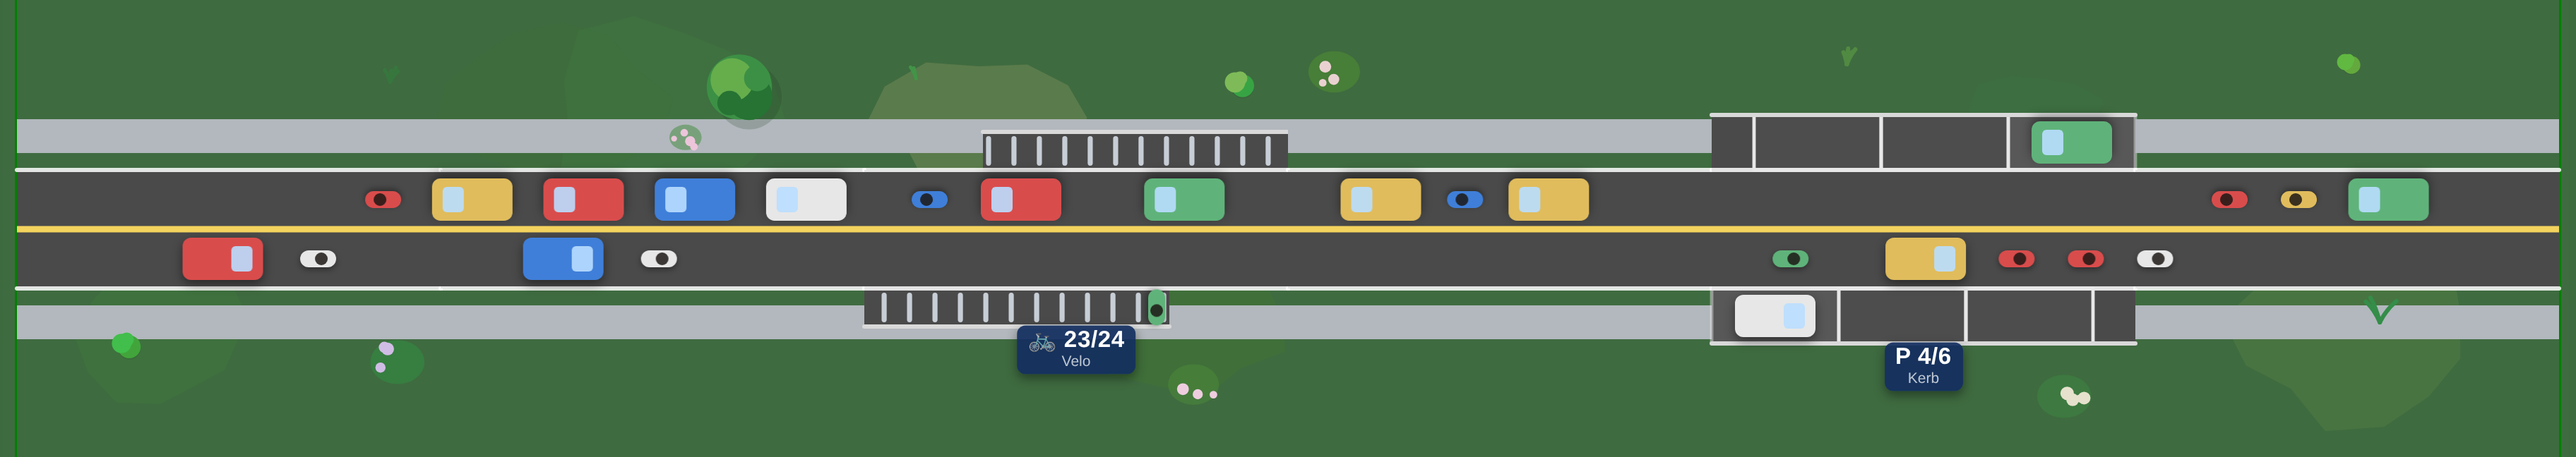
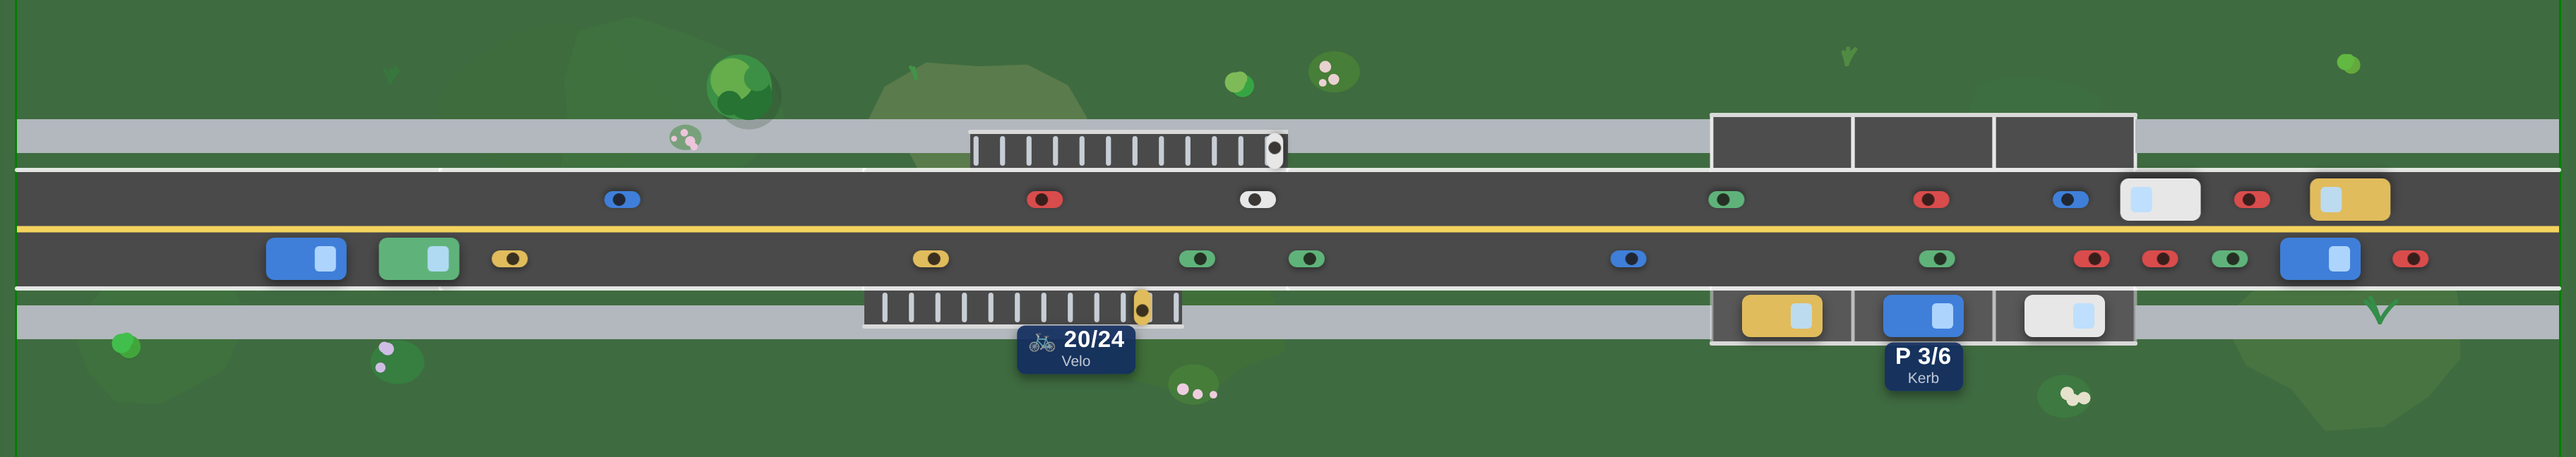
fix(parking): bay pitches divide the tile, so ranks repeat at the seam
Playtest: a kerbside rank showed three bays and a fourth cut off mid-box —
the 60px pitch spanned 180px of a 200px tile and the apron's seam extension
paved the stub. A packed row starts at the leading edge, so only a pitch
that divides the tile exactly can fill it: parallel is 1/3 now (three bays,
edge to edge) and the bike rack 1/16 (sixteen stands), and two parking
tiles side by side repeat as one continuous rank. The truck or coach that
would "fit" the roomier box is still refused by the bay-class gate — size
was never the fence there.

Claude-Session: https://claude.ai/code/session_018cEoxPea8NatzZQmcScoh2

diff --git a/src/tiles/parking.ts b/src/tiles/parking.ts
@@ -425,7 +425,14 @@ const DEPTH_FRAC: Record<StallKind, number> = {
 const PITCH_FRAC: Record<StallKind, number> = {
   // One coach's worth of kerb (a bus is 55px), plus room for the markings.
   busstop: 0.4,
-  parallel: 0.3, // 60px — a 38px car plus room to get in and out
+  // EXACTLY a third of the tile, so three bays FILL it — no orphaned stub of
+  // kerb at the seam. At the old 60px, a packed row spanned 180px and the
+  // apron's seam extension paved the last 20px, which read as a fourth bay cut
+  // off mid-box; at 66.67px, two parking tiles side by side repeat as one
+  // continuous rank of six. A 38px car has generous room either way, and the
+  // truck/coach that would now "fit" the longer box is still refused by the
+  // bay-CLASS gate (`bayAdmits` — a car bay admits cars, full stop).
+  parallel: 1 / 3,
   perpendicular: 0.14, // 28px — a car is 20px wide
   // 29px. NOT the 45° diagonal of the car: in a real echelon rank the along-kerb
   // pitch is the car's WIDTH divided by sin45 (20 / 0.707 = 28px) — the cars nest
@@ -434,12 +441,14 @@ const PITCH_FRAC: Record<StallKind, number> = {
   // 90° bays and wastes a third of the kerb.
   angled: 0.145,
   garage: 1, // the ramp mouth is one object, whatever the capacity
-  // 12px per stand — a bike is 9px wide, so each hoop leaves a hand's width to
-  // wheel in beside a parked neighbour, which is what a real Anlehnbügel rank
-  // looks like. 16 stands per tile where 3 cars fit (parallel pitch 60px): the
-  // density argument FOR racks, made visible. (First shipped at 18px and it
-  // read as half-empty — the bikes are small, and the kerb had room to spare.)
-  bikerack: 0.06,
+  // EXACTLY a sixteenth of the tile (12.5px) — a bike is 9px wide, so each
+  // hoop leaves a hand's width to wheel in beside a parked neighbour, which is
+  // what a real Anlehnbügel rank looks like. 16 stands per tile where 3 cars
+  // fit: the density argument FOR racks, made visible. The whole-fraction
+  // pitch is the same seam rule as the parallel bay's third: a full row FILLS
+  // its tile, so two rack tiles repeat as one continuous rank. (First shipped
+  // at 18px and read half-empty — the bikes are small.)
+  bikerack: 1 / 16,
 };
 
 // A LONG bay — the lorry/coach bay. The longest single-box vehicle the sim builds

diff --git a/tests/unit/sim/parking.spec.ts b/tests/unit/sim/parking.spec.ts
@@ -114,7 +114,7 @@ describe("parking geometry — a bay is where the car in it stands", () => {
     // whole street — which is why "centre" is opt-in, for a lone lay-by.
     const packed: ParkingRow = { from: Position.Left, kind: "parallel", count: 2 };
     const centred: ParkingRow = { ...packed, align: "centre" };
-    const pitch = 0.3 * 200;
+    const pitch = 200 / 3;
     // First bay's centre sits half a pitch in from the edge it starts at.
     expect(stallPose(packed, 0, 200, 28).x).toBeCloseTo(pitch / 2);
     // Centred, the pair straddles the middle of the tile instead.
@@ -374,7 +374,7 @@ describe("a 90 deg bay needs an aisle to turn in", () => {
     // A row that does NOT pack is a pocket and keeps its own extent: paving a
     // whole tile for one centred bay would read as a mistake, not as a car park.
     const lone: ParkingRow = { from: Position.Left, kind: "parallel", count: 1, align: "centre" };
-    expect(apronSpan(lone, 200)).toEqual({ from: 70, to: 130 });
+    expect(apronSpan(lone, 200)).toEqual({ from: 200 / 3, to: 200 - 200 / 3 });
     // Nor is a packed rank that simply does not REACH the far seam stretched to
     // it: six 90° bays are 168px of a 200px tile, and 32px of bare tarmac past
     // the last one would read as a rank someone gave up on. "Within half a pitch"
@@ -541,7 +541,7 @@ describe("a lay-by opens out of the kerb, and is entered along its own opening",
       layByTaperPx(bay, 200) - 0.5,
     );
     // An ordinary rank still packs, so consecutive tiles line up.
-    expect(stallPose(rank, 0, 200, 28).x).toBeCloseTo(30);
+    expect(stallPose(rank, 0, 200, 28).x).toBeCloseTo(200 / 6);
   });
 
   it("makes the entry SHALLOWER, not just longer", async () => {
